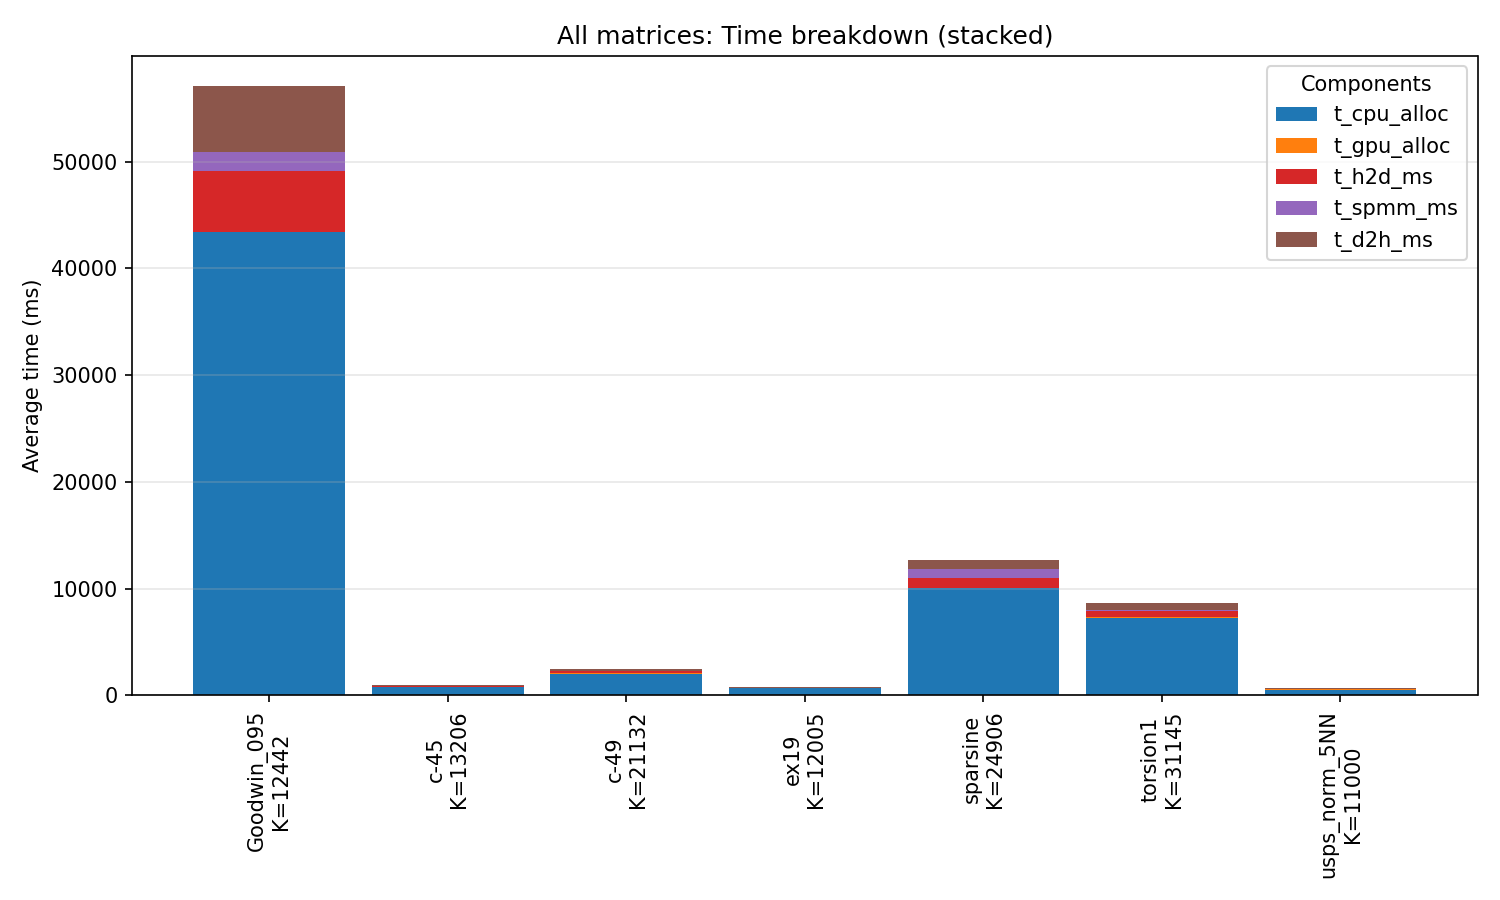
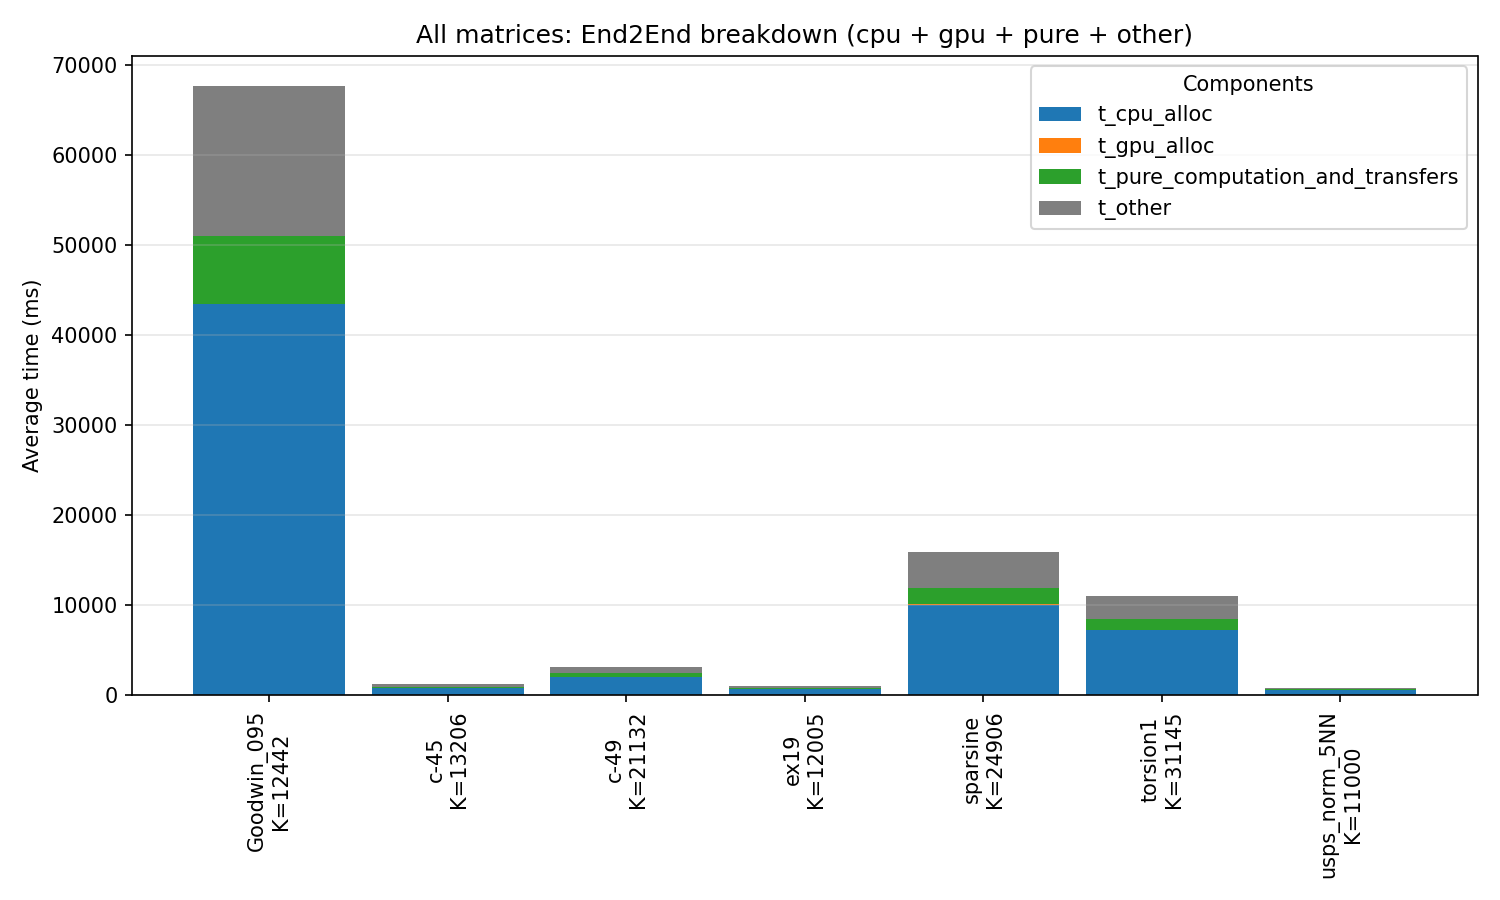
added summary plots for spmm(all timers, end2end and best_tile_k)

diff --git a/spmm/plot.py b/spmm/plot.py
@@ -7,7 +7,6 @@ from collections import defaultdict
 import numpy as np
 import matplotlib.pyplot as plt
 
-# --- Regex that matches your logs ---
 matrix_re = re.compile(r"^\s*MATRIX:\s*(\S+)")
 tilek_re = re.compile(r"^\s*tile_k\s*=\s*(\d+)\s*$")
 
@@ -15,10 +14,11 @@ avg_header_re = re.compile(
     r"^=== Averages for (overlap|csr) on (\S+), cfg=\[(.*?)\] over \d+ runs ==="
 )
 
-# Your per-run lines sometimes have "End2End=68009 ms" (no spaces)
+
 timing_re_any = re.compile(r"^\s*([A-Za-z0-9_]+)\s*=?\s*([\d\.]+)\s*ms\s*$")
 
-data = defaultdict(dict)  # data[matrix][impl] = best_record
+
+data = defaultdict(dict)
 
 
 def parse_file(path: str):
@@ -28,16 +28,18 @@ def parse_file(path: str):
     matrix = None
     tile_k = None
 
-    # Find matrix name + first tile_k
+ 
     for line in lines:
         if matrix is None:
             m = matrix_re.search(line)
             if m:
                 matrix = m.group(1)
+
         if tile_k is None:
             m = tilek_re.search(line)
             if m:
                 tile_k = int(m.group(1))
+
         if matrix is not None and tile_k is not None:
             break
 
@@ -60,14 +62,14 @@ def parse_file(path: str):
             "matrix": matrix,
             "impl": impl,
             "cfg": cfg,
-            "tile_k": tile_k,  # may still be None
+            "tile_k": tile_k,  # may be None if missing
             "End2End": np.nan,
             "t_cpu_alloc": 0.0,
             "t_gpu_alloc": 0.0,
             "t_h2d_ms": 0.0,
             "t_spmm_ms": 0.0,
             "t_d2h_ms": 0.0,
-            "t_pure_computation_and_transfers": np.nan,  # we’ll fill if present
+            "t_pure_computation_and_transfers": 0.0,
         }
 
         i += 1
@@ -76,15 +78,14 @@ def parse_file(path: str):
             if l == "" or l.startswith("==="):
                 break
 
-            mt = timing_re_any.match(l.replace("  ", " "))
+            mt = timing_re_any.match(l)
             if mt:
                 key = mt.group(1)
                 val = float(mt.group(2))
 
-                # Normalize a couple of key variants seen in logs
+  
                 if key == "t_pure_computation":
                     key = "t_pure_computation_and_transfers"
-                # Some logs might say t_pure_computation_and_transfers already
 
                 if key == "End2End":
                     record["End2End"] = val
@@ -93,7 +94,7 @@ def parse_file(path: str):
 
             i += 1
 
-        # Keep best record per matrix+impl (min End2End)
+   
         prev = data[matrix].get(impl)
         if prev is None or (record["End2End"] < prev["End2End"]):
             data[matrix][impl] = record
@@ -117,7 +118,7 @@ def plot_all(outdir="plots_all"):
     total_width = 0.85
     width = total_width / max(n_impl, 1)
 
-    # Labels include tile_k
+    
     labels = []
     tileks = []
     for m in matrices:
@@ -130,7 +131,6 @@ def plot_all(outdir="plots_all"):
         tileks.append(np.nan if tk is None else tk)
         labels.append(f"{m}\nK={tk}" if tk is not None else m)
 
-    # ---- Plot 0: tile_k per matrix ----
     plt.figure(figsize=(max(10, len(matrices) * 0.35), 4))
     plt.bar(x, tileks)
     plt.xticks(x, [m for m in matrices], rotation=90)
@@ -141,7 +141,6 @@ def plot_all(outdir="plots_all"):
     plt.savefig(os.path.join(outdir, "all_matrices_tile_k.png"), dpi=150)
     plt.close()
 
-    # ---- Plot 1: End2End ----
     plt.figure(figsize=(max(10, len(matrices) * 0.35), 5))
     for idx, impl in enumerate(all_impls):
         y = [np.nan if data[m].get(impl) is None else data[m][impl]["End2End"] for m in matrices]
@@ -157,27 +156,57 @@ def plot_all(outdir="plots_all"):
     plt.savefig(os.path.join(outdir, "all_matrices_end2end.png"), dpi=150)
     plt.close()
 
-    # ---- Plot 2: Stacked breakdown (atomic components) ----
-    components = ["t_cpu_alloc", "t_gpu_alloc", "t_h2d_ms", "t_spmm_ms", "t_d2h_ms"]
+    components = [
+        "t_cpu_alloc",
+        "t_gpu_alloc",
+        "t_pure_computation_and_transfers",
+        "t_other",
+    ]
     component_colors = {
         "t_cpu_alloc": "tab:blue",
         "t_gpu_alloc": "tab:orange",
-        "t_h2d_ms": "tab:red",
-        "t_spmm_ms": "tab:purple",
-        "t_d2h_ms": "tab:brown",
+        "t_pure_computation_and_transfers": "tab:green",
+        "t_other": "tab:gray",
     }
 
     plt.figure(figsize=(max(10, len(matrices) * 0.35), 6))
+
     for impl_idx, impl in enumerate(all_impls):
         offset = (impl_idx - (n_impl - 1) / 2) * width
         bottom = np.zeros(len(matrices))
 
-        for comp in components:
-            vals = np.array([
-                0.0 if data[m].get(impl) is None else float(data[m][impl].get(comp, 0.0))
-                for m in matrices
-            ])
+        end2end = np.array([
+            np.nan if data[m].get(impl) is None else float(data[m][impl].get("End2End", np.nan))
+            for m in matrices
+        ])
+        cpu = np.array([
+            0.0 if data[m].get(impl) is None else float(data[m][impl].get("t_cpu_alloc", 0.0))
+            for m in matrices
+        ])
+        gpu = np.array([
+            0.0 if data[m].get(impl) is None else float(data[m][impl].get("t_gpu_alloc", 0.0))
+            for m in matrices
+        ])
+        pure = np.array([
+            0.0 if data[m].get(impl) is None else float(
+                data[m][impl].get("t_pure_computation_and_transfers", 0.0)
+            )
+            for m in matrices
+        ])
 
+        other = end2end - (cpu + gpu + pure)
+        other = np.where(np.isnan(other), 0.0, other)
+        other = np.maximum(other, 0.0)
+
+        stacks = {
+            "t_cpu_alloc": cpu,
+            "t_gpu_alloc": gpu,
+            "t_pure_computation_and_transfers": pure,
+            "t_other": other,
+        }
+
+        for comp in components:
+            vals = stacks[comp]
             label = comp if impl_idx == 0 else None
             plt.bar(
                 x + offset,
@@ -191,46 +220,21 @@ def plot_all(outdir="plots_all"):
 
     plt.xticks(x, labels, rotation=90)
     plt.ylabel("Average time (ms)")
-    plt.title("All matrices: Time breakdown (stacked)")
+    plt.title("All matrices: End2End breakdown (cpu + gpu + pure + other)")
     plt.grid(axis="y", alpha=0.3)
     plt.legend(title="Components")
     plt.tight_layout()
     plt.savefig(os.path.join(outdir, "all_matrices_stacked.png"), dpi=150)
     plt.close()
 
-    # ---- Plot 3: t_pure_computation_and_transfers ----
-    # (separate plot because it overlaps/aggregates, not a clean stack component)
-    plt.figure(figsize=(max(10, len(matrices) * 0.35), 5))
-    for idx, impl in enumerate(all_impls):
-        y = []
-        for m in matrices:
-            r = data[m].get(impl)
-            if r is None:
-                y.append(np.nan)
-            else:
-                y.append(r.get("t_pure_computation_and_transfers", np.nan))
-        offset = (idx - (n_impl - 1) / 2) * width
-        plt.bar(x + offset, y, width=width, label=friendly_impl.get(impl, impl))
-
-    plt.xticks(x, labels, rotation=90)
-    plt.ylabel("Average time (ms)")
-    plt.title("All matrices: t_pure_computation_and_transfers")
-    plt.grid(axis="y", alpha=0.3)
-    plt.legend()
-    plt.tight_layout()
-    plt.savefig(os.path.join(outdir, "all_matrices_pure_compute_and_transfers.png"), dpi=150)
-    plt.close()
-
     print("Wrote plots to:", outdir)
     print(" - all_matrices_tile_k.png")
     print(" - all_matrices_end2end.png")
     print(" - all_matrices_stacked.png")
-    print(" - all_matrices_pure_compute_and_transfers.png")
 
 
 def main():
-    # adjust to your actual folder name
-    files = sorted(glob.glob("results_best_tile_K/no_nsys/*"))
+    files = sorted(glob.glob("results_best_tile_K/no_nsys/*.txt"))
     if not files:
         print("No .txt files found under results_best_tile_k/no_nsys/")
         return
